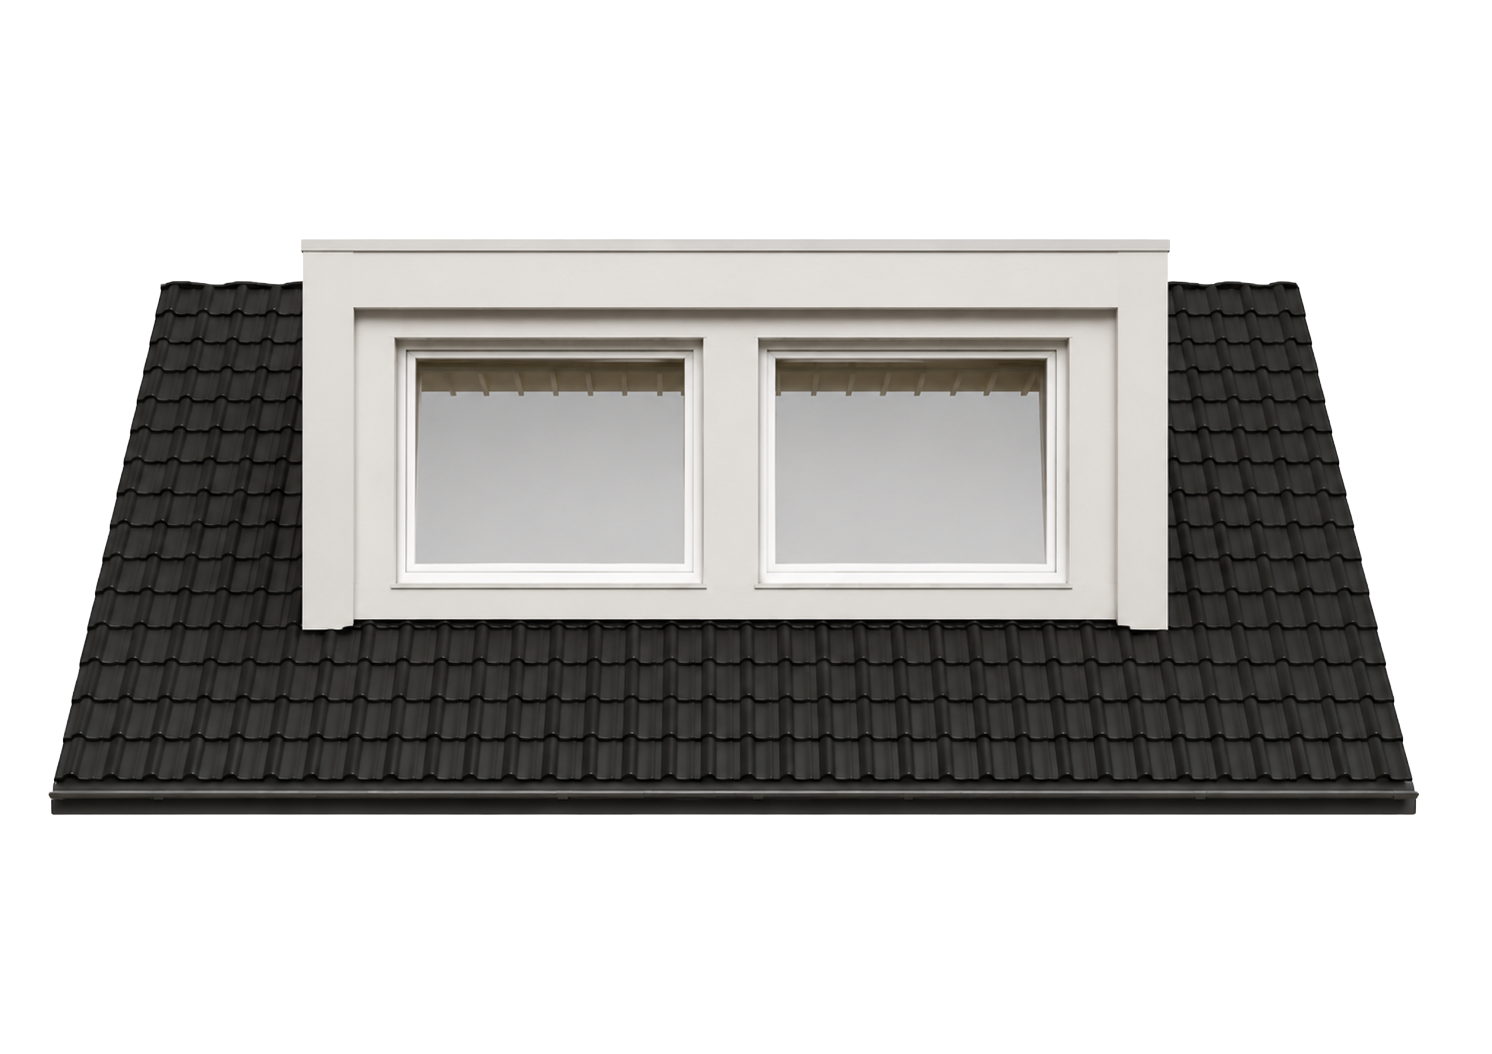
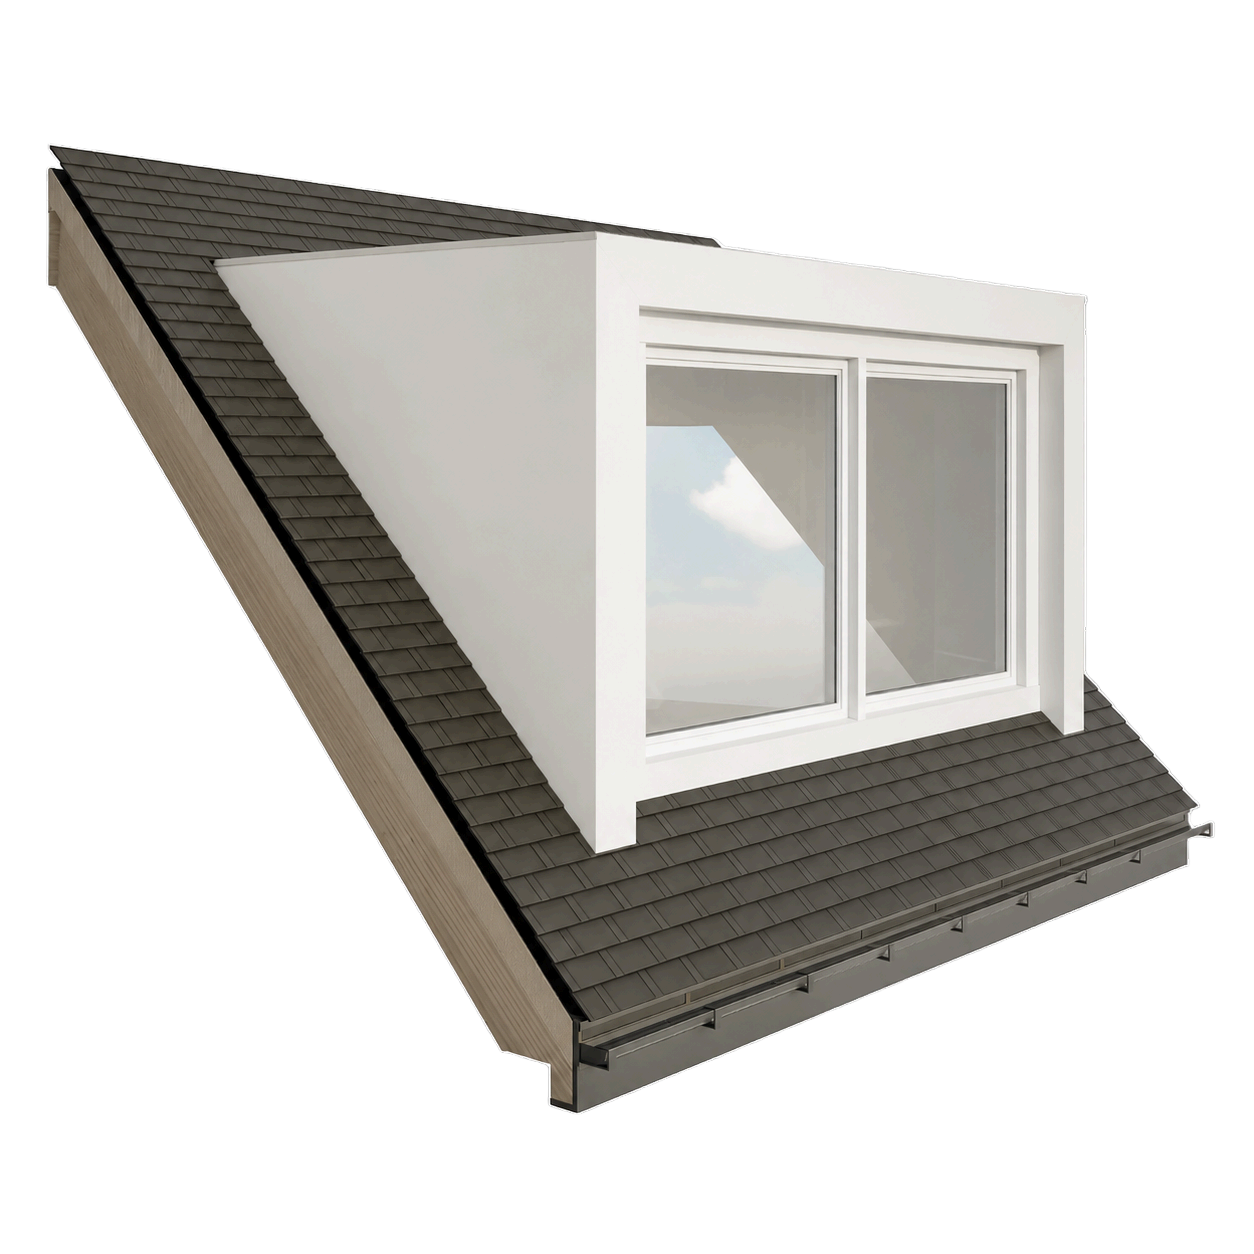
changes done

diff --git a/src/components/WindowConfigurator/DormerGeometry.tsx b/src/components/WindowConfigurator/DormerGeometry.tsx
@@ -955,6 +955,59 @@ function BoeiSideBand({ position, size, mainColor, boeiColor, outward }: {
   )
 }
 
+/** Roof covering membrane on top of the flat roof slab — Bitumen shows visible
+ *  grey roll-seam stripes, EPDM is flat matte dark grey with no texture/shine. */
+function RoofMembrane({ position, size, covering = 'bitumen' }: {
+  position: [number, number, number]
+  size: [number, number, number]
+  covering?: 'bitumen' | 'epdm'
+}) {
+  const isBitumen = covering === 'bitumen'
+
+  const bitumenTex = useMemo(() => {
+    if (!isBitumen) return null
+    const canvas = document.createElement('canvas')
+    canvas.width = 256; canvas.height = 256
+    const ctx = canvas.getContext('2d')
+    if (ctx) {
+      ctx.fillStyle = '#6b6b6b'
+      ctx.fillRect(0, 0, 256, 256)
+      const stripeW = 32
+      for (let x = 0; x < 256; x += stripeW) {
+        ctx.fillStyle = (x / stripeW) % 2 === 0 ? '#787878' : '#5e5e5e'
+        ctx.fillRect(x, 0, stripeW, 256)
+        ctx.strokeStyle = 'rgba(0,0,0,0.25)'
+        ctx.lineWidth = 2
+        ctx.beginPath(); ctx.moveTo(x, 0); ctx.lineTo(x, 256); ctx.stroke()
+      }
+    }
+    const tex = new THREE.CanvasTexture(canvas)
+    tex.wrapS = tex.wrapT = THREE.RepeatWrapping
+    tex.repeat.set(Math.max(size[0] / mm(300), 1), Math.max(size[2] / mm(600), 1))
+    return tex
+  }, [isBitumen, size])
+
+  const matRef = useRef(new THREE.MeshStandardMaterial({
+    color: isBitumen ? '#6b6b6b' : '#3f3f3f',
+    roughness: isBitumen ? 0.85 : 0.9,
+    metalness: 0,
+    map: bitumenTex,
+  }))
+
+  useEffect(() => {
+    matRef.current.color.set(isBitumen ? '#6b6b6b' : '#3f3f3f')
+    matRef.current.roughness = isBitumen ? 0.85 : 0.9
+    matRef.current.map = bitumenTex
+    matRef.current.needsUpdate = true
+  }, [isBitumen, bitumenTex])
+
+  return (
+    <mesh position={position} castShadow receiveShadow material={matRef.current}>
+      <boxGeometry args={size} />
+    </mesh>
+  )
+}
+
 /** Fascia board on top of flat slab — front, left and right faces follow the color */
 function FasciaBoard({ W, H, depth, color, isKader = false }: {
   W: number; H: number; depth: number; color: string; isKader?: boolean
@@ -1542,10 +1595,11 @@ export function ProceduralDormer({ config }: { config: WindowConfig }) {
         // the roof membrane, meant to sit on top of the trim.
         const slabTopY = H + ROOF_SLAB_T + mm(40) + mm(3)
         return (
-          <mesh position={[0, slabTopY, slabCtrZ]} castShadow receiveShadow>
-            <boxGeometry args={[totalW - mm(300), mm(20), slabLen - mm(300)]} />
-            <meshStandardMaterial color="#3f3f3f" roughness={0.9} metalness={0.0} />
-          </mesh>
+          <RoofMembrane
+            position={[0, slabTopY, slabCtrZ]}
+            size={[totalW - mm(300), mm(20), slabLen - mm(300)]}
+            covering={config.roofCovering}
+          />
         )
       })()}
 
@@ -1573,6 +1627,20 @@ export function ProceduralDormer({ config }: { config: WindowConfig }) {
             outward="right"
           />
         )}
+        {/* Lood/Loodvervanger flashing — right side, runs along the roof-to-
+            dormer seam next to the cheek, matching the roof pitch angle.
+            Color follows "Aansluiting pannendak": Lood = light grey,
+            Loodvervanger = dark grey/almost black. */}
+        <mesh
+          position={[SIDE_W / 2 + mm(90), (depth / 2) * Math.tan(pitchRad) + mm(3), -depth / 2]}
+          rotation={[pitchRad, 0, 0]}
+        >
+          <boxGeometry args={[mm(260), mm(6), Math.hypot(cheekH, depth)]} />
+          <meshStandardMaterial
+            color={config.roofConnection === 'loodvervanger' ? '#2a2a2a' : '#b8b8b8'}
+            roughness={0.45} metalness={0.3}
+          />
+        </mesh>
       </group>
 
       {/* ── Left side cheek — group at -halfW so scale-flip puts it at -(halfW+SIDE_W) ── */}
@@ -1599,7 +1667,41 @@ export function ProceduralDormer({ config }: { config: WindowConfig }) {
             outward="left"
           />
         )}
+        {/* Lood/Loodvervanger flashing — left side, mirrored */}
+        <mesh
+          position={[-SIDE_W / 2 - mm(90), (depth / 2) * Math.tan(pitchRad) + mm(3), -depth / 2]}
+          rotation={[pitchRad, 0, 0]}
+        >
+          <boxGeometry args={[mm(260), mm(6), Math.hypot(cheekH, depth)]} />
+          <meshStandardMaterial
+            color={config.roofConnection === 'loodvervanger' ? '#2a2a2a' : '#b8b8b8'}
+            roughness={0.45} metalness={0.3}
+          />
+        </mesh>
       </group>
+
+      {/* Lood/Loodvervanger — front and back bands, connecting the two side
+          bands into one continuous rectangle around the dormer roofline.
+          Front sits at the eave (z=0, y≈0, matching the side bands' front
+          ends); back sits at the ridge (z=-depth, y≈cheekH, matching the
+          side bands' back ends). Both flat (no rotation) since they run
+          straight across, perpendicular to the sloped side bands. */}
+      {(() => {
+        const spanX = 2 * (halfW + SIDE_W / 2 + mm(90)) + mm(260)
+        const floodColor = config.roofConnection === 'loodvervanger' ? '#2a2a2a' : '#b8b8b8'
+        return (
+          <>
+            <mesh position={[0, mm(3) - mm(60) * Math.tan(pitchRad), mm(60)]} rotation={[pitchRad, 0, 0]}>
+              <boxGeometry args={[spanX, mm(6), mm(220)]} />
+              <meshStandardMaterial color={floodColor} roughness={0.45} metalness={0.3} />
+            </mesh>
+            <mesh position={[0, cheekH - mm(42), -depth + mm(70)]} rotation={[pitchRad, 0, 0]}>
+              <boxGeometry args={[spanX, mm(6), mm(400)]} />
+              <meshStandardMaterial color={floodColor} roughness={0.45} metalness={0.3} />
+            </mesh>
+          </>
+        )
+      })()}
     </group>
   )
 }

diff --git a/src/components/WindowConfigurator/Scene.tsx b/src/components/WindowConfigurator/Scene.tsx
@@ -39,12 +39,16 @@ class SceneErrorBoundary extends Component<{ children: React.ReactNode }, { erro
   }
 }
 
+// Step number of "Dakbedekking en aansluiting" (Bitumen/EPDM + Lood/Loodvervanger).
+const DAKBEDEKKING_STEP = 7;
+
 /** Smooth animated camera controller - zooms based on window count, resets on step change */
 function CameraController({ config }: { config: WindowConfig }) {
   const controlsRef = useRef<any>(null);
   const { camera } = useThree();
   const prevStepRef = useRef(config.currentStep);
   const prevCopiesRef = useRef(config.windowCopies);
+  const prevRoofCoveringRef = useRef(config.roofCovering);
   const animatingRef = useRef(false);
   const frameZoomRef = useRef<{ frameCenterX: number; frameWidth: number } | null>(null);
 
@@ -69,6 +73,25 @@ function CameraController({ config }: { config: WindowConfig }) {
   const targetLookRef = useRef(new THREE.Vector3(-0.5580617264265286, isMobile ? -0.4 : -0.26438039392461765, -0.17671947803556104)); // user target
 
   const getTargetZ = (copies: number) => baseZ + (copies - 1) * 2.5;
+
+  // The normal front view used on step 5/6/7 etc. — same as the existing
+  // "step >= 4" default, kept as a helper so the Bitumen/EPDM toggle can fall
+  // back to it without duplicating the numbers.
+  const applyFrontView = (copies: number) => {
+    const z = getTargetZ(copies);
+    targetPosRef.current.set(0, isMobile ? -0.3 : 0.5, isMobile ? z - 2.5 : z + 1);
+    targetLookRef.current.set(0, 0, 0);
+  };
+
+  // Steep, slightly-angled bird's-eye view (not perfectly vertical) — used
+  // only while on the Dakbedekking step with "Bitumen" selected, so the
+  // roof-covering strip pattern is clearly visible from above while still
+  // keeping a touch of perspective, matching the reference photo angle.
+  const applyTopView = (copies: number) => {
+    const z = getTargetZ(copies);
+    targetPosRef.current.set(0, z * 0.95, z * 0.35);
+    targetLookRef.current.set(0, 0, 0);
+  };
 
   // Listen for frame selection events from Step5Arrange
   useEffect(() => {
@@ -98,6 +121,15 @@ function CameraController({ config }: { config: WindowConfig }) {
         // Step 3: slightly zoomed out and rotated from Hellingshoek
         targetPosRef.current.set(-6.5, isMobile ? 0.2 : 1.2, 3.5);
         targetLookRef.current.set(0, -0.2, 0);
+      } else if (config.currentStep === DAKBEDEKKING_STEP) {
+        // Dakbedekking en aansluiting: top-down view ONLY when Bitumen is the
+        // selected covering, so the strip pattern reads clearly. EPDM (or
+        // any other value) keeps the normal front view used elsewhere.
+        if (config.roofCovering === 'bitumen') {
+          applyTopView(config.windowCopies);
+        } else {
+          applyFrontView(config.windowCopies);
+        }
       } else if (config.currentStep === 6) {
         // Step 6: Breedte & penanten - front view to show frame widths and penants
         targetPosRef.current.set(0, isMobile ? -0.3 : 0.5, isMobile ? z - 2.5 : z + 1);
@@ -133,7 +165,13 @@ function CameraController({ config }: { config: WindowConfig }) {
       prevCopiesRef.current = config.windowCopies;
       const z = getTargetZ(config.windowCopies);
       // Keep current step's camera angle, only adjust Z for zoom
-      if (config.currentStep === 4) {
+      if (config.currentStep === DAKBEDEKKING_STEP) {
+        if (config.roofCovering === 'bitumen') {
+          applyTopView(config.windowCopies);
+        } else {
+          applyFrontView(config.windowCopies);
+        }
+      } else if (config.currentStep === 4) {
         // De hellingshoek keeps its tilted, zoomed-out, panned side view
         targetPosRef.current.set(isMobile ? defaultX : -9.7, isMobile ? defaultY : 0.5, isMobile ? baseZ : 0.2);
         targetLookRef.current.set(isMobile ? -0.558 : -0.4, isMobile ? -0.26 : -0.3, isMobile ? -0.177 : -1.6);
@@ -154,6 +192,23 @@ function CameraController({ config }: { config: WindowConfig }) {
       animatingRef.current = true;
     }
   }, [config.windowCopies]);
+
+  // Detect roofCovering toggle (Bitumen ⇄ EPDM) while ALREADY on the
+  // Dakbedekking step — switches to/from the top-down view without needing a
+  // step change. Does nothing on any other step.
+  useMemo(() => {
+    if (prevRoofCoveringRef.current !== config.roofCovering) {
+      prevRoofCoveringRef.current = config.roofCovering;
+      if (config.currentStep === DAKBEDEKKING_STEP) {
+        if (config.roofCovering === 'bitumen') {
+          applyTopView(config.windowCopies);
+        } else {
+          applyFrontView(config.windowCopies);
+        }
+        animatingRef.current = true;
+      }
+    }
+  }, [config.roofCovering]);
 
   // Set initial camera position on mount — use useEffect so controlsRef is ready
   const mountedRef = useRef(false);

diff --git a/src/components/WindowConfigurator/steps/Step3Dimensions.tsx b/src/components/WindowConfigurator/steps/Step3Dimensions.tsx
@@ -24,6 +24,11 @@ export function Step3Dimensions({ config, onChange }: StepProps) {
   return (
     <div className="flex flex-col flex-1 px-10 pt-2 pb-4 text-left animate-in fade-in slide-in-from-bottom-4 duration-500 step-3-dimensions-container overflow-hidden text-center">
 
+      {/* Hoogte Section Header */}
+      <div className="w-full flex justify-center mb-1">
+        <h3 className="step-title-bold text-[16px] text-black leading-tight tracking-tight text-center">Hoogte</h3>
+      </div>
+
       {/* Hoogte Section */}
       <div className="flex items-center justify-between mb-3">
         <span className="text-[15px] font-black text-[#6E94B0] tracking-tight">Hoogte</span>
